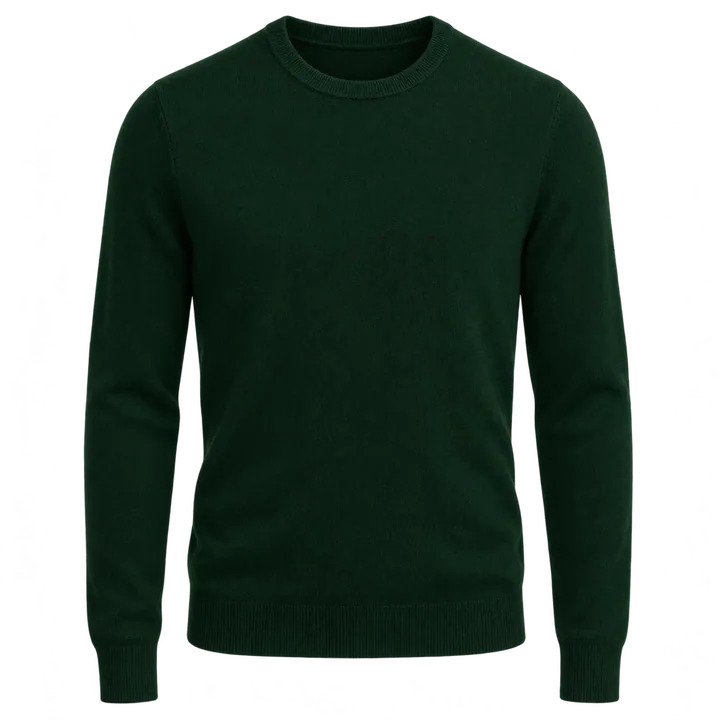
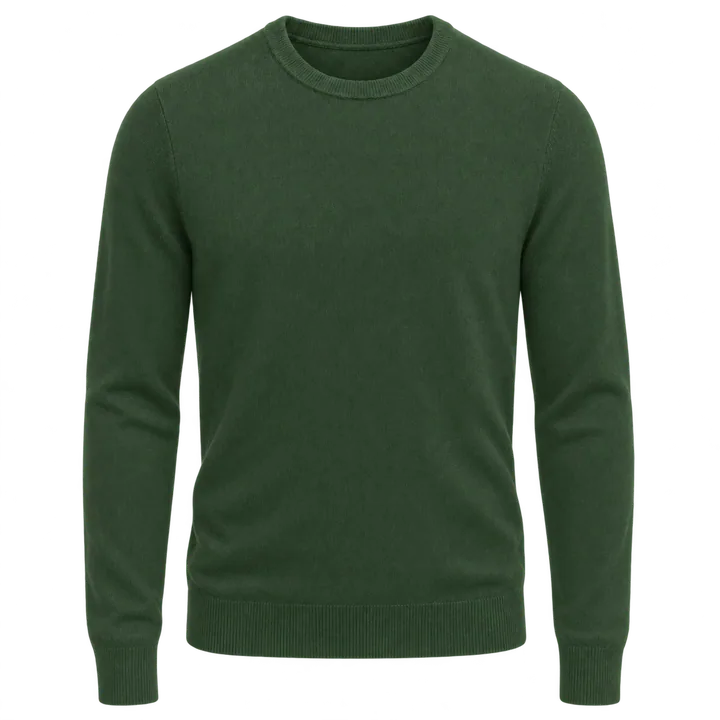
Match the crewneck to Christmas green

diff --git a/data-catalog.js b/data-catalog.js
@@ -18,7 +18,7 @@
    - lookAliases resolves legacy bookmarks and rotation history to the identical existing look. */
 window.FITS_DATA={
 families:[
-{id:'family-dark-green-crewneck-beige-chinos',name:'Dark green crewneck + beige chinos + white leather sneakers',hero:'look-dark-green-crewneck-beige-chinos',looks:['look-dark-green-crewneck-beige-chinos']},
+{id:'family-dark-green-crewneck-beige-chinos',name:'Christmas green crewneck + beige chinos + white leather sneakers',hero:'look-dark-green-crewneck-beige-chinos',looks:['look-dark-green-crewneck-beige-chinos']},
 {"id":"family-navy-wool-cream-knit-blue-denim","name":"Navy wool shirt jacket + cream crewneck + blue jeans","hero":"look-navy-wool-cream-knit-blue-denim","looks":["look-navy-wool-cream-knit-blue-denim"]},
 {"id":"family-brown-quarterzip-dark-denim","name":"Brown quarter-zip + white T-shirt + dark denim","hero":"look-brown-quarterzip-dark-denim","looks":["look-brown-quarterzip-dark-denim"]},
 {"id":"family-cream-quarterzip-blue-denim","name":"Cream quarter-zip + white T-shirt + blue jeans","hero":"look-cream-quarterzip-blue-denim","looks":["look-cream-quarterzip-blue-denim"]},
@@ -234,7 +234,7 @@ families:[
 ,{id:'family-look-207',name:'Blue gingham shirt + navy chinos',hero:'look-207',looks:['look-207']}
 ],
 looks:[
-{id:'look-dark-green-crewneck-beige-chinos',family:'family-dark-green-crewneck-beige-chinos',name:'Dark green crewneck + beige chinos + white leather sneakers',image:'assets/look-dark-green-crewneck-beige-chinos.webp?v=1',formal:2,badges:['Weekend','Travel'],pieces:['dark-green-crewneck-sweater','beige-chinos','white-leather-sneakers']},
+{id:'look-dark-green-crewneck-beige-chinos',family:'family-dark-green-crewneck-beige-chinos',name:'Christmas green crewneck + beige chinos + white leather sneakers',image:'assets/look-dark-green-crewneck-beige-chinos.webp?v=2',formal:2,badges:['Weekend','Travel'],pieces:['dark-green-crewneck-sweater','beige-chinos','white-leather-sneakers']},
 {"id":"look-navy-wool-cream-knit-blue-denim","family":"family-navy-wool-cream-knit-blue-denim","name":"Navy wool shirt jacket + cream crewneck + blue jeans","image":"assets/look-navy-wool-cream-knit-blue-denim.webp?v=1","formal":2,"badges":["Weekend","Travel"],"pieces":["navy-wool-shirt-jacket","cream-crewneck-sweater","blue-denim","white-leather-sneakers"]},
 {"id":"look-brown-quarterzip-dark-denim","family":"family-brown-quarterzip-dark-denim","name":"Brown quarter-zip + white T-shirt + dark denim","image":"assets/look-brown-quarterzip-dark-denim.webp?v=1","formal":2,"badges":["Weekend","Travel"],"pieces":["brown-knit-quarterzip","white-tee","dark-denim","white-leather-sneakers"]},
 {"id":"look-navy-vest-cream-knit-brown-chelsea","family":"family-navy-vest-cream-turtleneck-dark-denim","name":"Navy quilted vest + cream turtleneck + brown Chelsea boots","image":"assets/look-navy-vest-cream-knit-brown-chelsea.webp?v=1","formal":2,"badges":["Weekend","Dinner"],"pieces":["owned-md-navy-quilted-vest","cream-cable-knit-turtleneck","dark-denim","brown-chelsea"]},
@@ -487,7 +487,7 @@ looks:[
 ,{id:'look-207',family:'family-look-207',name:'Blue gingham shirt + navy chinos + cognac loafers',image:'assets/look-207-blue-gingham-navy-chinos-brown-loafers.png?v=1',formal:2,badges:['Office','Weekend','Travel'],pieces:['owned-blue-gingham-shirt','navy-trousers','brown-loafers']}
 ],
 pieces:[
-{id:'dark-green-crewneck-sweater',name:'Dark green crewneck sweater',category:'Top',status:'missing'},
+{id:'dark-green-crewneck-sweater',name:'Christmas green crewneck sweater',category:'Top',status:'missing'},
 {"id":"navy-wool-shirt-jacket","name":"Navy wool shirt jacket","category":"Outerwear","status":"missing"},
 {"id":"brown-knit-quarterzip","name":"Brown quarter-zip knit sweater","category":"Top","status":"missing"},
 {"id":"charcoal-denim","name":"Washed charcoal jeans","category":"Pants","status":"missing"},

diff --git a/fits-pipeline.js b/fits-pipeline.js
@@ -3,7 +3,7 @@
    Add, remove, reorder or cache-bump a data step here only, never in a page.
 
    Pages load it as the first script in <body>, then their own UI scripts:
-     <script src="fits-pipeline.js?v=19"></script>
+     <script src="fits-pipeline.js?v=20"></script>
    Cloudflare caches it for 4 hours, so bump that ?v= in every page whenever this file changes.
    document.write keeps the steps parser-blocking and in order, before the page's own scripts
    and before DOMContentLoaded, exactly like the static <script> tags it replaces.
@@ -12,7 +12,7 @@
 (()=>{
   const steps=[
     // Source data: edit records in data-catalog.js and bump its ?v= here
-    'data-catalog.js?v=28',
+    'data-catalog.js?v=29',
     // Wardrobe cleanup
     'wardrobe-canonical-v2.js?v=5',
     'look-aliases.js?v=1',
@@ -41,7 +41,7 @@
     // Garment groups for the Wardrobe and Looks filters (FITS_KINDS)
     'garment-kinds.js?v=4',
     // Piece image maps (window.FITS_CATALOG_IMAGES)
-    'catalog-images.js?v=2','catalog-batch2.js?v=2','catalog-batch3.js?v=2','catalog-v4.js?v=15'
+    'catalog-images.js?v=2','catalog-batch2.js?v=2','catalog-batch3.js?v=2','catalog-v4.js?v=16'
   ];
   window.FITS_PIPELINE=steps;
   if(typeof document!=='undefined'&&typeof document.write==='function')

diff --git a/inspiration-lab.html b/inspiration-lab.html
@@ -51,7 +51,7 @@ nav a{color:#cdd2d5;font-size:12px;text-decoration:none}nav a.active{color:white
 <section id="savedView" class="hidden"><h1>My versions</h1><p class="subtle">Saved combinations, independent from original looks.</p><div id="savedList"></div></section>
 <nav><a href="#" data-screen="browse" class="active">✦ Inspiration</a><a href="#" data-screen="savedView">♡ My versions</a><a href="wardrobe.html">◇ Wardrobe</a><a href="index.html">⌂ FITS Home</a></nav>
 </div>
-<script src="fits-pipeline.js?v=19"></script>
+<script src="fits-pipeline.js?v=20"></script>
 <script src="weather-location-cache.js?v=5"></script>
 <script src="season-filter.js?v=33"></script>
 <script>

diff --git a/wardrobe.html b/wardrobe.html
@@ -19,7 +19,7 @@
 </head>
 <body data-page="wardrobe-v5">
   <div id="root"></div>
-  <script src="fits-pipeline.js?v=19"></script>
+  <script src="fits-pipeline.js?v=20"></script>
   <script>var PIECE_IMAGES=window.PIECE_IMAGES||{};</script>
   <script src="piece-image-overrides.js?v=41"></script>
   <script src="looks-v5-core.js?v=15"></script>

diff --git a/looks.html b/looks.html
@@ -23,7 +23,7 @@
 </head>
 <body data-page="looks-v5">
   <div id="root"></div>
-  <script src="fits-pipeline.js?v=19"></script>
+  <script src="fits-pipeline.js?v=20"></script>
   <script>var PIECE_IMAGES=window.PIECE_IMAGES||{};</script>
   <script src="piece-image-overrides.js?v=41"></script>
   <script src="looks-v5-core.js?v=15"></script>

diff --git a/next-buy.html b/next-buy.html
@@ -19,7 +19,7 @@
 </head>
 <body data-page="next-buy">
   <div id="root"></div>
-  <script src="fits-pipeline.js?v=19"></script>
+  <script src="fits-pipeline.js?v=20"></script>
   <script>var PIECE_IMAGES=window.PIECE_IMAGES||{};</script>
   <script src="piece-image-overrides.js?v=41"></script>
   <script src="looks-v5-core.js?v=15"></script>

diff --git a/piece.html b/piece.html
@@ -19,7 +19,7 @@
 </head>
 <body data-page="piece-v5">
   <div id="root"></div>
-  <script src="fits-pipeline.js?v=19"></script>
+  <script src="fits-pipeline.js?v=20"></script>
   <script>var PIECE_IMAGES=window.PIECE_IMAGES||{};</script>
   <script src="piece-image-overrides.js?v=41"></script>
   <script src="looks-v5-core.js?v=15"></script>

diff --git a/stats.html b/stats.html
@@ -19,7 +19,7 @@
 </head>
 <body data-page="stats-v5">
   <div id="root"></div>
-  <script src="fits-pipeline.js?v=19"></script>
+  <script src="fits-pipeline.js?v=20"></script>
   <script>var PIECE_IMAGES=window.PIECE_IMAGES||{};</script>
   <script src="piece-image-overrides.js?v=41"></script>
   <script src="looks-v5-core.js?v=15"></script>

diff --git a/detail.html b/detail.html
@@ -26,7 +26,7 @@
 </head>
 <body>
   <div id="root"></div>
-  <script src="fits-pipeline.js?v=19"></script>
+  <script src="fits-pipeline.js?v=20"></script>
   <script>window.PIECE_IMAGES=window.FITS_CATALOG_IMAGES||{};</script>
   <script src="piece-image-overrides.js?v=41"></script>
   <script src="detail-v3.js?v=40"></script>

diff --git a/index.html b/index.html
@@ -54,7 +54,7 @@
 </head>
 <body>
   <div id="root"></div>
-  <script src="fits-pipeline.js?v=19"></script>
+  <script src="fits-pipeline.js?v=20"></script>
   <script src="fits-weather.js?v=1"></script>
   <script src="home-v2.js?v=34"></script>
   <script src="weather-location-cache.js?v=5"></script>

diff --git a/catalog-v4.js b/catalog-v4.js
@@ -84,5 +84,5 @@ Object.assign(window.FITS_CATALOG_IMAGES, {
 });
 
 Object.assign(window.FITS_CATALOG_IMAGES, {
-'dark-green-crewneck-sweater':'assets/catalog-dark-green-crewneck-sweater.webp?v=1'
+'dark-green-crewneck-sweater':'assets/catalog-dark-green-crewneck-sweater.webp?v=2'
 });
